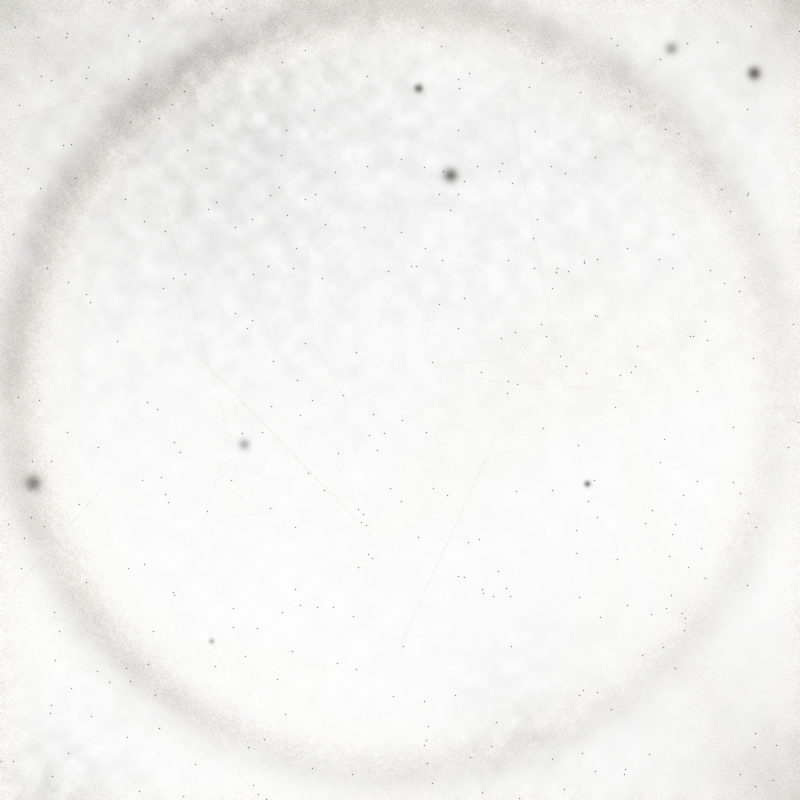
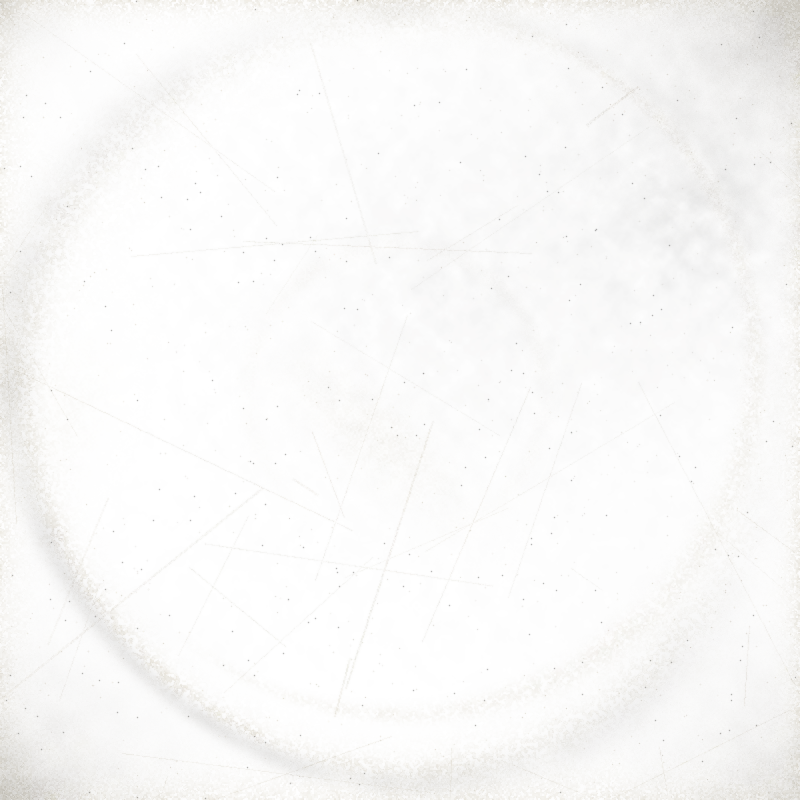
40: ring wear as asymmetric arcs; steeper age curve
Ring wear is no longer a compass circle: the radius wobbles as the disc
shifted, the band's width varies, and the wear covers one to three arcs,
heaviest where the disc rested and broken elsewhere. Ring wear is less
likely on newer records, and the age curve steepens so a 2005 record
carries about half the wear of a mid-90s one. Six regenerated so far.

Claude-Session: https://claude.ai/code/session_01PbqXtG5SizYecEWh39Pkkj

diff --git a/scripts/make-wear.py b/scripts/make-wear.py
@@ -41,26 +41,40 @@ def make(slug, year=None):
     yy, xx = np.mgrid[0:S, 0:S].astype(np.float32)
     # How hard a life: older records have been played and shelved for decades, newer ones barely.
     age = (2026 - int(str(year)[:4])) if year else 20
-    life = float(np.clip(.22 + age / 40 * 1.15 + U(-.12, .12), .2, 1.45))
+    life = float(np.clip(.2 + (age / 40) ** 1.6 * 1.2 + U(-.1, .1), .18, 1.45))   # steep: 2005 ≈ half of 1995
     fibre = (0.35 + 0.65 * noise(2, 2, .6)) * (0.7 + 0.6 * (noise(2, 1) > .45))   # paper fibre: high frequency, partly binary
     light = np.zeros((S, S), np.float32); dark = np.zeros((S, S), np.float32)
 
-    # Ring wear: the disc's edge abrading the print. Feathered band, heaviest where the disc rested.
-    if P(.78):
-        cx, cy = S * U(.47, .53), S * U(.47, .53); R = S * U(.43, .47)
+    # Ring wear: the disc's edge abrading the print. Never a compass circle: the radius wobbles
+    # as the disc shifted, the band's width varies, and the wear only covers one to three arcs,
+    # heaviest where the disc rested (usually low, from gravity) and broken up elsewhere.
+    def arc_cover(ang, n, rest):
+        cover = np.zeros_like(ang)
+        for i in range(n):
+            c = rest + (U(-.6, .6) if i == 0 else U(-math.pi, math.pi)); span = U(.6, 3.6) if i == 0 else U(.4, 2.2)
+            d = np.abs(((ang - c + math.pi) % (2 * math.pi)) - math.pi)
+            cover += np.clip(1 - (d - span / 2) / (span * .3), 0, 1) * (1 if i == 0 else U(.4, .9))
+        return np.clip(cover, 0, 1)
+    if P(.35 + .5 * min(1, age / 35)):
+        cx, cy = S * U(.46, .54), S * U(.47, .55); R0 = S * U(.42, .47)
         r = np.hypot(xx - cx, yy - cy); ang = np.arctan2(yy - cy, xx - cx)
-        w = S * U(.012, .03)
-        band = np.exp(-((r - R) / w) ** 2) + .35 * np.exp(-((r - R) / (w * 2.6)) ** 2)
-        rest = U(0, 2 * math.pi); lobe = .35 + .65 * (.5 + .5 * np.cos(ang - rest)) ** U(1, 3)
-        ring = band * lobe * (.5 + noise(30) * .9) * (noise(4, 2) > U(.25, .45))
-        light += blur(ring, .6) * U(.8, 1.3)
-        dark += np.exp(-((r - R * 1.035) / (w * 1.4)) ** 2) * lobe * (.3 + noise(40) * .6) * U(.15, .4)
-        if P(.3):                                                        # a second, offset ring from an inner sleeve
-            R2 = R * U(.93, .99); cx2, cy2 = cx + S * U(-.03, .03), cy + S * U(-.03, .03)
-            r2 = np.hypot(xx - cx2, yy - cy2)
-            light += blur(np.exp(-((r2 - R2) / (w * .8)) ** 2) * (.3 + noise(26) * .7) * (noise(4, 2) > .3), .8) * U(.3, .6)
-        if P(.5):                                                        # faint spindle/label ring
-            light += np.exp(-((r - S * U(.15, .19)) / (S * .01)) ** 2) * noise(24) * U(.15, .35)
+        ph1, ph2, ph3 = U(0, 6.28), U(0, 6.28), U(0, 6.28)
+        R = R0 * (1 + U(.01, .035) * np.sin(ang + ph1) + U(.005, .02) * np.sin(3 * ang + ph2))
+        w = S * U(.01, .03) * (.55 + .9 * (.5 + .5 * np.sin(2 * ang + ph3)))
+        band = np.exp(-((r - R) / w) ** 2) + .3 * np.exp(-((r - R) / (w * 2.8)) ** 2)
+        rest = U(math.pi * .15, math.pi * .85) if P(.7) else U(0, 2 * math.pi)   # low on the sleeve, mostly
+        lobe = .25 + .75 * (.5 + .5 * np.cos(ang - rest)) ** U(1, 2.5)
+        cover = arc_cover(ang, int(U(1, 4)), rest) * (.35 + .65 * noise(60))
+        mottle = (.4 + noise(24) * 1.0) * (noise(3, 2) > U(.3, .5))
+        ring = band * lobe * cover * mottle
+        light += blur(ring, .5) * U(.9, 1.4)
+        dark += np.exp(-((r - R * 1.035) / (w * 1.5)) ** 2) * lobe * cover * (.3 + noise(40) * .6) * U(.15, .4)
+        if P(.3):                                                        # a second, offset arc from an inner sleeve
+            R2 = R0 * U(.92, .99); cx2, cy2 = cx + S * U(-.04, .04), cy + S * U(-.04, .04)
+            r2 = np.hypot(xx - cx2, yy - cy2); ang2 = np.arctan2(yy - cy2, xx - cx2)
+            light += blur(np.exp(-((r2 - R2) / (w * .8)) ** 2) * arc_cover(ang2, int(U(1, 3)), U(0, 6.28)) * (.3 + noise(26) * .7) * (noise(3, 2) > .35), .6) * U(.3, .7)
+        if P(.35):                                                       # faint spindle/label arc
+            light += np.exp(-((r - S * U(.15, .19)) / (S * .01)) ** 2) * arc_cover(ang, 1, U(0, 6.28)) * noise(24) * U(.15, .35)
 
     # Edge whitening: ink chipping off the folded edges. Top edge often worse (shelf wear).
     dl, dr_, dt, db = xx, S - 1 - xx, yy, S - 1 - yy
@@ -134,7 +148,7 @@ def make(slug, year=None):
     light = np.clip((light * life * fibre) ** .8 * 1.25, 0, 1); dark = np.clip(blur(dark, .6) * life, 0, .85)
     # Compose one RGBA overlay for normal blending: grime over fibres.
     a_l = light; a_d = dark
-    rgb_l = np.array([248, 246, 240], np.float32); rgb_d = np.array([22, 20, 18], np.float32)
+    rgb_l = np.array([238, 234, 226], np.float32); rgb_d = np.array([22, 20, 18], np.float32)
     A = a_d + a_l * (1 - a_d)
     rgb = (rgb_d[None, None] * a_d[..., None] + rgb_l[None, None] * (a_l * (1 - a_d))[..., None]) / np.maximum(A[..., None], 1e-4)
     out = np.dstack([rgb.clip(0, 255).astype(np.uint8), (A * 255).astype(np.uint8)])
